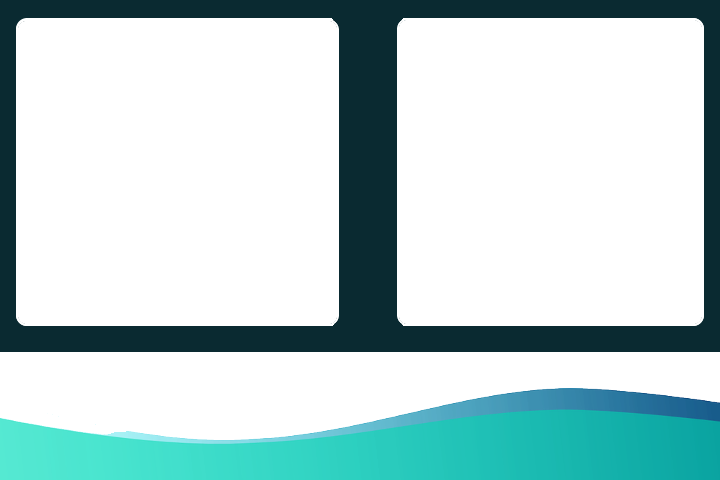
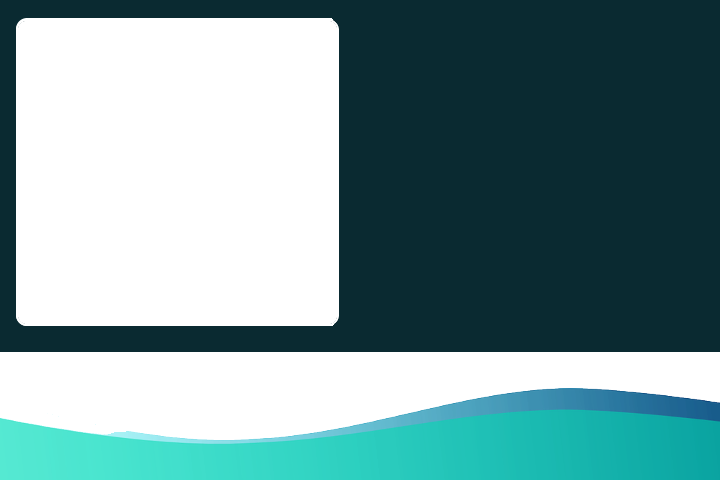
player vidéo fonctionnel

Changed region(s): [[0.55, 0.0312, 0.9778, 0.6875]]

diff --git a/src/reconstitution/resources/style.css b/src/reconstitution/resources/style.css
@@ -5,3 +5,25 @@
 .title{
     -fx-effect: dropshadow(three-pass-box, rgba(0,0,0,0.4), 12, 0, 0, 0);
 }
+
+.playPause {
+    -fx-background-color: transparent;
+    -fx-background-image: url('reconstitution/resources/images/play.png');
+    -fx-background-position: center;
+    -fx-background-size: stretch;
+}
+
+.mute {
+    -fx-background-color: transparent;
+    -fx-background-image: url('reconstitution/resources/images/unmute.png');
+    -fx-background-position: center;
+    -fx-background-size: stretch;
+}
+
+.playPause.white {
+    -fx-background-image: url('reconstitution/resources/images/play-white.png');
+}
+
+.mute.white {
+    -fx-background-image: url('reconstitution/resources/images/unmute-white.png');
+}

diff --git a/src/reconstitution/controller/TeacherCreateController.java b/src/reconstitution/controller/TeacherCreateController.java
@@ -1,27 +1,44 @@
 package reconstitution.controller;
 
+import javafx.event.Event;
 import javafx.fxml.FXML;
 import javafx.fxml.FXMLLoader;
 import javafx.fxml.Initializable;
 import javafx.scene.Node;
 import javafx.scene.Parent;
 import javafx.scene.Scene;
+import javafx.scene.control.Button;
 import javafx.scene.control.Hyperlink;
 import javafx.scene.control.Label;
+import javafx.scene.control.ProgressBar;
 import javafx.scene.image.ImageView;
 import javafx.scene.layout.AnchorPane;
+import javafx.scene.layout.HBox;
+import javafx.scene.layout.VBox;
+import javafx.scene.media.Media;
+import javafx.scene.media.MediaPlayer;
+import javafx.scene.media.MediaView;
 import javafx.scene.shape.Rectangle;
 import javafx.stage.FileChooser;
 import javafx.stage.Stage;
+import javafx.util.Duration;
 import reconstitution.MainTeacher;
 
+import java.io.File;
 import java.io.IOException;
 import java.net.URL;
 import java.util.ResourceBundle;
 
 public class TeacherCreateController implements Initializable {
 
+    private static boolean playPauseSwitch = false;
+    private static boolean muteSwitch = false;
+
     private static Stage menuOption;
+
+    private Button playPauseButton;
+    private Button muteButton;
+    private MediaPlayer mediaPlayer;
 
     @FXML
     AnchorPane anchorPane;
@@ -32,11 +49,21 @@ public class TeacherCreateController implements Initializable {
     @FXML
     Rectangle addMedia;
 
+    @FXML
+    VBox player;
+
+    @FXML
+    ImageView uploadLogo;
+
     @Override
     public void initialize(URL url, ResourceBundle resourceBundle) {
         createOptionStage();
 
         addMedia.setOnMouseClicked(mouseEvent -> openMedia());
+        if(!TeacherMenuController.isEvaluation()){
+            anchorPane.getChildren().removeAll(evaluationTime);
+        }
+        uploadLogo.setOnMouseClicked(mouseEvent -> openMedia());
         if(!TeacherMenuController.isEvaluation()){
             anchorPane.getChildren().removeAll(evaluationTime);
         }
@@ -55,10 +82,86 @@ public class TeacherCreateController implements Initializable {
         menuOption.show();
     }
 
+    @FXML
+    public void playPause() {
+        if (playPauseSwitch) {
+            mediaPlayer.play();
+            playPauseButton.setStyle("-fx-background-image: url('reconstitution/resources/images/pause-white.png');");
+        } else {
+            mediaPlayer.pause();
+            playPauseButton.setStyle("-fx-background-image: url('reconstitution/resources/images/play-white.png');");
+        }
+        playPauseSwitch = !playPauseSwitch;
+    }
+
+    @FXML
+    public void mute(){
+        mediaPlayer.setMute(muteSwitch);
+        if(muteSwitch){
+            muteButton.setStyle("-fx-background-image: url('reconstitution/resources/images/mute-white.png');");
+        } else {
+            muteButton.setStyle("-fx-background-image: url('reconstitution/resources/images/unmute-white.png');");
+        }
+        muteSwitch = !muteSwitch;
+    }
+
+    public void setMediaCursor(Double time){
+        Duration duration = new Duration(time*mediaPlayer.getMedia().getDuration().toMillis());
+        mediaPlayer.seek(duration);
+    }
+
+    public double getPercentage(MediaPlayer mediaPlayer){
+        Double duration = mediaPlayer.getMedia().getDuration().toSeconds();
+        Double time = mediaPlayer.getCurrentTime().toSeconds();
+
+        return time/duration;
+    }
+
     public void openMedia(){
         FileChooser fileChooser = new FileChooser();
         fileChooser.setTitle("Choisir un média");
-        fileChooser.showOpenDialog(MainTeacher.getStage());
+        //fileChooser.setSelectedExtensionFilter(); //TODO: extension de fichier dans le FileChooser
+        File file = fileChooser.showOpenDialog(MainTeacher.getStage());
+
+        player.getChildren().remove(addMedia);
+        anchorPane.getChildren().remove(uploadLogo);
+
+        HBox hbox = new HBox();
+
+        ProgressBar mediaProgressBar = new ProgressBar();
+
+        playPauseButton = new Button();
+
+        playPauseButton.getStyleClass().addAll("playPause","white");
+        playPauseButton.setOnAction(actionEvent -> playPause());
+        playPauseButton.setPrefWidth(25.0);
+
+        muteButton = new Button();
+
+        muteButton.getStyleClass().addAll("mute","white");
+        muteButton.setOnAction(actionEvent -> mute());
+        muteButton.setPrefWidth(25.0);
+
+        mediaProgressBar.setPrefHeight(26.0);
+        mediaProgressBar.setOnMouseClicked(mouseEvent -> {
+            setMediaCursor(mouseEvent.getX()/mediaProgressBar.getWidth());
+        });
+
+        mediaPlayer = new MediaPlayer(new Media(file.toURI().toString()));
+        mediaPlayer.currentTimeProperty().addListener((observable, oldValue, newValue)->{
+            mediaProgressBar.setProgress(getPercentage(mediaPlayer));
+        });
+
+        MediaView mv = new MediaView();
+        mv.setMediaPlayer(mediaPlayer);
+        mv.setFitWidth(308.0);
+        mv.setOnMouseClicked(mouseEvent -> playPause());
+
+        mediaProgressBar.setPrefWidth(mv.getFitWidth()-playPauseButton.getWidth()-muteButton.getWidth()-2);
+
+        hbox.getChildren().addAll(playPauseButton, mediaProgressBar, muteButton);
+        player.getChildren().addAll(mv, hbox);
+
     }
 
     public void createOptionStage(){

diff --git a/src/reconstitution/controller/StudentMainController.java b/src/reconstitution/controller/StudentMainController.java
@@ -6,16 +6,17 @@ import javafx.scene.control.*;
 import javafx.scene.media.Media;
 import javafx.scene.media.MediaPlayer;
 import javafx.scene.media.MediaView;
+import javafx.util.Duration;
 
 import java.net.URL;
 import java.util.ResourceBundle;
 
 public class StudentMainController implements Initializable {
 
-    private boolean playPauseSwitch;
-    private boolean muteSwitch;
+    private static boolean playPauseSwitch = false;
+    private static boolean muteSwitch = false;
 
-    MediaPlayer mediaPlayer;
+    private MediaPlayer mediaPlayer;
 
     @FXML
     ProgressBar mediaProgressBar;
@@ -32,32 +33,58 @@ public class StudentMainController implements Initializable {
     @FXML
     MediaView mediaView;
 
+    @FXML
+    Button playButton, muteButton;
+
     @Override
     public void initialize(URL url, ResourceBundle resourceBundle) {
-        muteSwitch = false;
-        playPauseSwitch = false;
-        String MEDIA_URL = "https://liveexample.pearsoncmg.com/common/sample.mp4";
+        String MEDIA_URL = "file:/C:/Users/lennylouis/Downloads/sample.mp4";
 
-        Media media = new Media(MEDIA_URL);
-        mediaPlayer = new MediaPlayer(media);
+        mediaPlayer = new MediaPlayer(new Media(MEDIA_URL));
 
         mediaView.setMediaPlayer(mediaPlayer);
+        mediaView.setOnMouseClicked(mouseEvent -> playPause());
+        mediaProgressBar.setProgress(0.5);
+        mediaPlayer.currentTimeProperty().addListener((observable, oldValue, newValue)->{
+            mediaProgressBar.setProgress(getPercentage(mediaPlayer));
+        });
+        mediaProgressBar.setOnMouseClicked(mouseEvent -> {
+            setMediaCursor(mouseEvent.getX()/mediaProgressBar.getWidth());
+        });
+    }
+
+    public void setMediaCursor(Double time){
+        Duration duration = new Duration(time*mediaPlayer.getMedia().getDuration().toMillis());
+        mediaPlayer.seek(duration);
+    }
+
+    public double getPercentage(MediaPlayer mediaPlayer){
+        Double duration = mediaPlayer.getMedia().getDuration().toSeconds();
+        Double time = mediaPlayer.getCurrentTime().toSeconds();
+
+        return time/duration;
     }
 
     @FXML
-    public void play() {
+    public void playPause() {
         if (playPauseSwitch) {
             mediaPlayer.play();
-            playPauseSwitch = false;
+            playButton.setStyle("-fx-background-image: url('reconstitution/resources/images/pause.png');");
         } else {
-            playPauseSwitch = true;
             mediaPlayer.pause();
+            playButton.setStyle("-fx-background-image: url('reconstitution/resources/images/play.png');");
         }
+        playPauseSwitch = !playPauseSwitch;
     }
 
     @FXML
     public void mute(){
         mediaPlayer.setMute(muteSwitch);
+        if(muteSwitch){
+            muteButton.setStyle("-fx-background-image: url('reconstitution/resources/images/mute.png');");
+        } else {
+            muteButton.setStyle("-fx-background-image: url('reconstitution/resources/images/unmute.png');");
+        }
         muteSwitch = !muteSwitch;
     }
 
